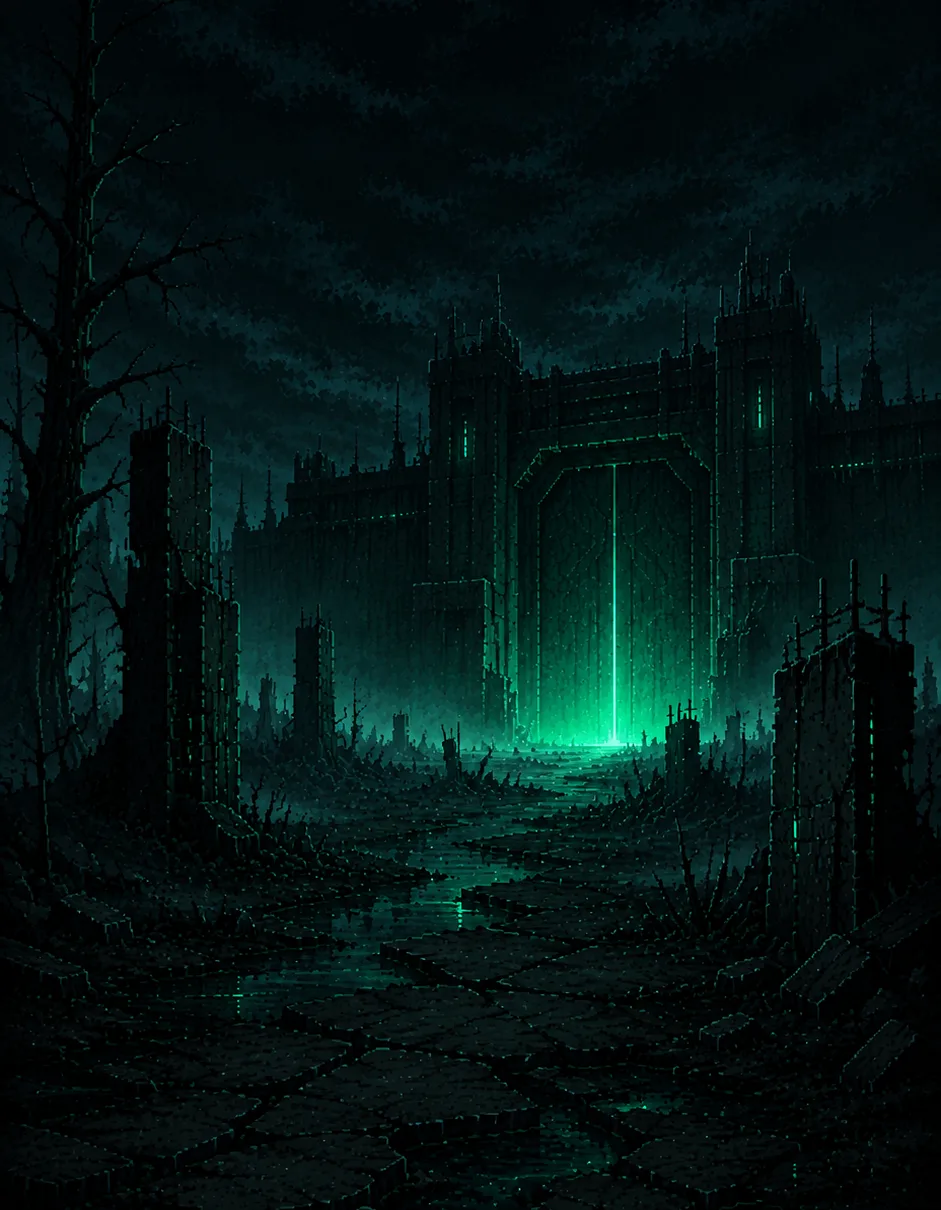
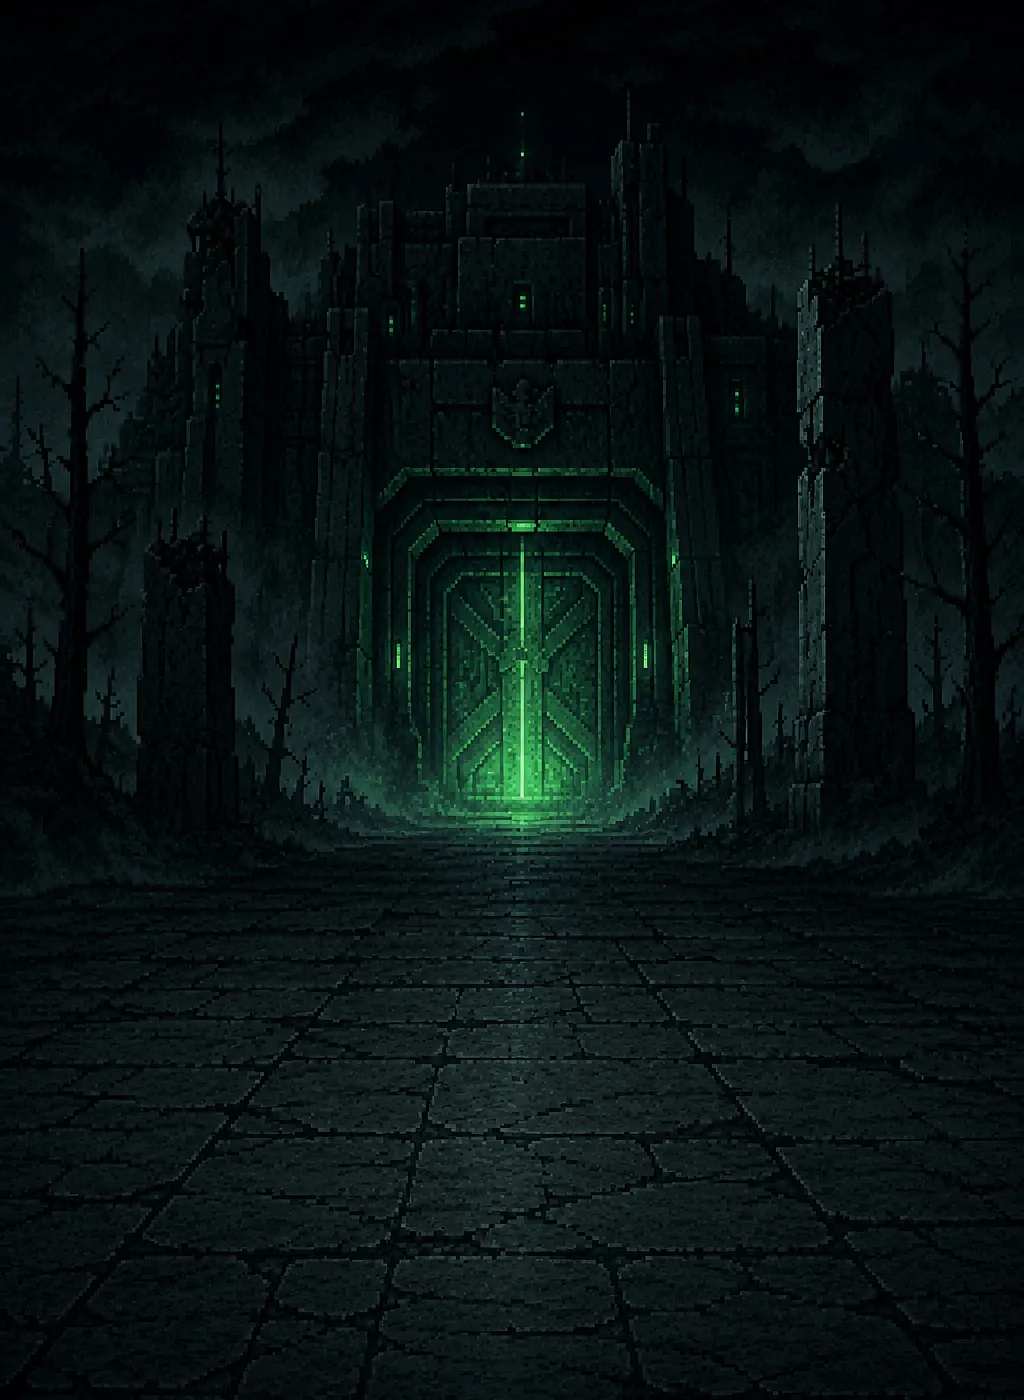
art: new sunken/market/last-light backgrounds + scale the outdoor hero 1.5x
Three more backgrounds regenerated with a clear walkable band, and the
character's outdoor size fixed.

Backgrounds (sunken field, hollow market, the last light) all crop with their
ground at 0.80 to match GROUND_Y_FRAC, verified by rendering the feet line over
each first. The sunken field needed care: its walkable surface is a narrow
stone causeway with water both above and below it, so the band was measured
from a brightness profile (stone reads 50-85 against water at ~20) rather than
eyeballed — it sits at y=1020-1118, and the feet are pinned at 1098, on the
causeway and clear of its front lip.

Hero scale: the outdoor scene drew the hero at LPC_HERO.scale (1.2, ~56px),
but that number was calibrated for the DUNGEON, which renders through a camera
zoom in tight rooms. Outdoors there is no zoom, and the new art puts the
character beside three-storey bunker doors and full-height pines, so 56px read
as a speck. Added an outdoor-only HERO_SCALE_MUL (1.5 -> ~85px), applied to
both the LPC composite and the fallback sprite, with the shadow ellipse scaled
alongside so it can't detach from the feet. Chosen from a rendered 1.0/1.5/2.0
comparison — 2.0 started breaking the sense of scale against the buildings.

Frostline (snow) is now the only background still on the earlier art.

Backgrounds total 580KB, down from ~876KB before the swap began.

Verified: node --check, tsc clean, next build exit 0.

Claude-Session: https://claude.ai/code/session_01MFp5HdUg816RTQ3x6VUp2o

diff --git a/public/game-engine/outdoor.js b/public/game-engine/outdoor.js
@@ -27,6 +27,14 @@ window.NS_OUTDOOR = (function(){
   // character stands ON the terrain instead of floating in the scenery. Change
   // one and the other has to be re-cropped to match.
   const GROUND_Y_FRAC = 0.80;
+
+  // The hero's base scale (assets.js LPC_HERO.scale = 1.2, ~56px tall) was
+  // calibrated for the DUNGEON, which draws through a camera zoom in tight
+  // rooms. Out here there is no zoom and the backgrounds put the character
+  // beside three-storey bunker doors and full-height pines, so at 1:1 the
+  // hero reads as a speck. This multiplier is the outdoor-only correction —
+  // raise it if the character still looks lost against the scenery.
+  const HERO_SCALE_MUL = 1.5;
   const EDGE_MARGIN = 36; // how close to the literal screen edge the player can walk before being clamped/triggering the exit
 
   let state = null; // null when not in an outdoor scene
@@ -228,13 +236,15 @@ window.NS_OUTDOOR = (function(){
     // Same fix as Player.draw() in entities.js (see comment there): the LPC
     // hero's feet sit exactly at py, so a large fixed offset leaves a gap
     // between the character and its shadow. Matched to +2 for visual
-    // consistency between outdoor and dungeon scenes.
-    ctx.beginPath(); ctx.ellipse(px, py+2, 18, 6, 0, 0, 7); ctx.fill(); ctx.restore();
+    // consistency between outdoor and dungeon scenes. Shadow scales with the
+    // hero so it never detaches from the feet.
+    const sc = HERO_SCALE_MUL;
+    ctx.beginPath(); ctx.ellipse(px, py+2, 18*sc, 6*sc, 0, 0, 7); ctx.fill(); ctx.restore();
     let drewLPC = false;
     if(s.useLPCHero && drawLPCComposite){
       const A = window.NS_ASSETS;
       const heroCfg = A && A.LPC_HERO;
-      drewLPC = !!heroCfg && drawLPCComposite(ctx, px, py, heroCfg.scale, s._lpcDir, s._lpcFrame, {
+      drewLPC = !!heroCfg && drawLPCComposite(ctx, px, py, heroCfg.scale*sc, s._lpcDir, s._lpcFrame, {
         animKey: s._lpcAnimKey || 'idle',
         // v80: equipped gear visible outdoors (never attacking out here, so
         // the weapon renders via the ULPC walk/idle carry overlay).
@@ -247,7 +257,7 @@ window.NS_OUTDOOR = (function(){
       // Either useLPCHero is off, or the LPC sheets aren't loaded yet —
       // fall back to the old Pixel Crawler sprite so the player is never
       // invisible (same defensive fallback as Player.draw() in entities.js).
-      s.anim.draw(ctx, px, py, s.heroCfg.scale, s.facing<0, s.heroCfg.foot, 1);
+      s.anim.draw(ctx, px, py, s.heroCfg.scale*sc, s.facing<0, s.heroCfg.foot, 1);
     }
 
     // speech bubble above the player's head (arrival beats)
